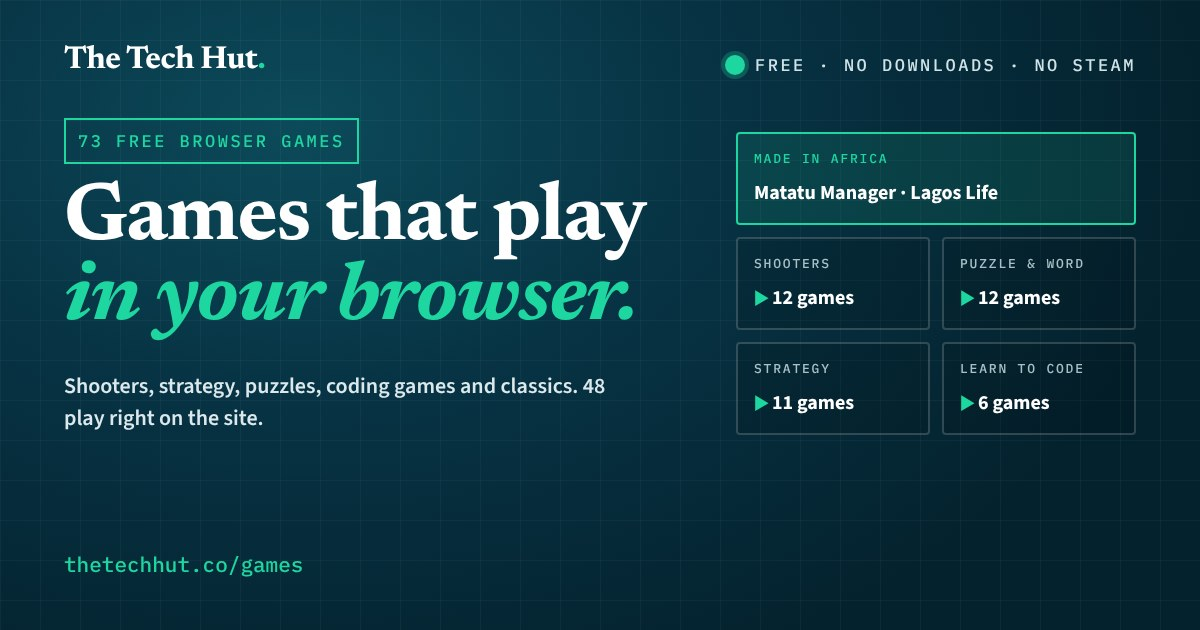
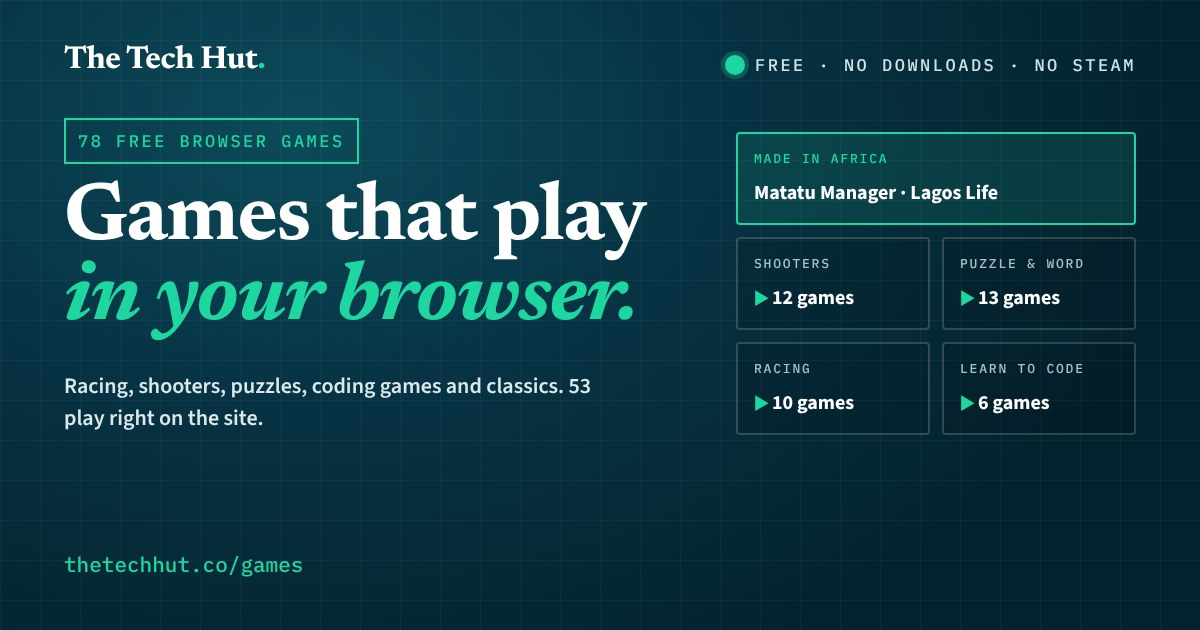
Games: four more racing games that play on the site; 78 games
Kart Bros, DashCraft.io, Free Rider HD and Bruno Simon's drivable
portfolio. None sends X-Frame-Options or frame-ancestors, none redirects
the parent page when framed, and their scripts have no frame-busting
checks. Slugs added to GAME_SLUGS; counts and share image updated (78
games, 53 on-site, Racing tile).

Checked and left out: Madalin Stunt Cars and Rocket Bot Royale
(SAMEORIGIN), Trigger Rally (site down).

Claude-Session: https://claude.ai/code/session_012aqDtYgHZhPc87kBUa8yyQ

Changed region(s): [[0.0308, 0.6032, 0.5242, 0.6333], [0.6167, 0.573, 0.6783, 0.6032], [0.6475, 0.6333, 0.6783, 0.6635]]

diff --git a/games/index.html b/games/index.html
@@ -4,37 +4,37 @@
 <head>
     <meta charset="UTF-8">
     <meta name="viewport" content="width=device-width, initial-scale=1.0">
-    <title>Free browser games: 74 to play right now, no downloads | The Tech Hut</title>
+    <title>Free browser games: 78 to play right now, no downloads | The Tech Hut</title>
     <link rel="canonical" href="https://thetechhut.co/games/">
-    <meta name="description" content="74 free games that play in your browser: shooters, strategy, racing, puzzles and classics like Doom and Diablo. No Steam, no Epic, no downloads, and every one of them legal.">
+    <meta name="description" content="78 free games that play in your browser: shooters, strategy, racing, puzzles and classics like Doom and Diablo. No Steam, no Epic, no downloads, and every one of them legal.">
     <meta name="keywords" content="free browser games, games to play online free, no download games, play games in browser, legal free online games, African video games, Kenyan games, Matatu Manager, Lagos Life, The Tech Hut">
     <meta name="robots" content="index, follow, max-image-preview:large">
 
     <meta property="og:type" content="website">
     <meta property="og:site_name" content="The Tech Hut">
     <meta property="og:locale" content="en_KE">
-    <meta property="og:title" content="74 free games you can play in your browser">
+    <meta property="og:title" content="78 free games you can play in your browser">
     <meta property="og:description" content="No Steam, no Epic, no downloads. Shooters, strategy, racing, puzzles and classics, all free and all legal, with two games made in Africa.">
     <meta property="og:url" content="https://thetechhut.co/games/">
-    <meta property="og:image" content="https://thetechhut.co/assets/img/social/games.jpg?v=74">
+    <meta property="og:image" content="https://thetechhut.co/assets/img/social/games.jpg?v=78">
     <meta property="og:image:width" content="1200">
     <meta property="og:image:height" content="630">
     <meta property="og:image:type" content="image/jpeg">
-    <meta property="og:image:alt" content="The Tech Hut games: 74 free browser games, including Matatu Manager and Lagos Life, made in Africa">
+    <meta property="og:image:alt" content="The Tech Hut games: 78 free browser games, including Matatu Manager and Lagos Life, made in Africa">
     <meta name="twitter:card" content="summary_large_image">
-    <meta name="twitter:title" content="74 free games you can play in your browser">
+    <meta name="twitter:title" content="78 free games you can play in your browser">
     <meta name="twitter:description" content="No Steam, no Epic, no downloads. All free, all legal, 28 playable right on The Tech Hut.">
-    <meta name="twitter:image" content="https://thetechhut.co/assets/img/social/games.jpg?v=74">
-    <meta name="twitter:image:alt" content="The Tech Hut games: 74 free browser games, including Matatu Manager and Lagos Life, made in Africa">
+    <meta name="twitter:image" content="https://thetechhut.co/assets/img/social/games.jpg?v=78">
+    <meta name="twitter:image:alt" content="The Tech Hut games: 78 free browser games, including Matatu Manager and Lagos Life, made in Africa">
     <meta name="theme-color" content="#073B4C">
     <script type="application/ld+json">
     {
       "@context": "https://schema.org",
       "@type": "CollectionPage",
       "name": "Free browser games",
-      "description": "74 free, legal games that play in your browser, with no downloads or game-store account needed.",
+      "description": "78 free, legal games that play in your browser, with no downloads or game-store account needed.",
       "url": "https://thetechhut.co/games/",
-      "image": "https://thetechhut.co/assets/img/social/games.jpg?v=74",
+      "image": "https://thetechhut.co/assets/img/social/games.jpg?v=78",
       "inLanguage": "en-KE",
       "isPartOf": { "@type": "WebSite", "name": "The Tech Hut", "url": "https://thetechhut.co/" },
       "publisher": { "@type": "Organization", "name": "The Tech Hut Community", "url": "https://thetechhut.co/", "logo": "https://thetechhut.co/assets/img/favicon-192.png" }
@@ -150,7 +150,7 @@
 
     <header class="hero" id="main">
         <div class="wrap">
-            <span class="pill">74 games &middot; free &middot; nothing to install</span>
+            <span class="pill">78 games &middot; free &middot; nothing to install</span>
             <h1>Games that play <em>in your browser.</em></h1>
             <p class="lede">No Steam, no Epic, no downloads. Shooters, strategy, racing, puzzles and a few
                 famous classics, including Doom and Diablo. Games marked <b style="color:var(--ink)">Plays here</b>
@@ -257,7 +257,7 @@
         </div>
     </footer>
 
-    <script src="/assets/js/games-data.js?v=20261107c"></script>
+    <script src="/assets/js/games-data.js?v=20261107d"></script>
     <script src="/assets/js/games-live.js?v=20261027b" defer></script>
     <script src="/assets/js/games-arcade.js?v=20261103" defer></script>
     <script>

diff --git a/game_test.html b/game_test.html
@@ -16,7 +16,7 @@
     <meta property="og:title" content="50 free games you can play in your browser">
     <meta property="og:description" content="No Steam, no Epic, no downloads. Shooters, strategy, racing, puzzles and classics, all free and all legal, with two games made in Africa.">
     <meta property="og:url" content="https://thetechhut.co/games/">
-    <meta property="og:image" content="https://thetechhut.co/assets/img/social/games.jpg?v=74">
+    <meta property="og:image" content="https://thetechhut.co/assets/img/social/games.jpg?v=78">
     <meta property="og:image:width" content="1200">
     <meta property="og:image:height" content="630">
     <meta property="og:image:type" content="image/jpeg">
@@ -24,7 +24,7 @@
     <meta name="twitter:card" content="summary_large_image">
     <meta name="twitter:title" content="50 free games you can play in your browser">
     <meta name="twitter:description" content="No Steam, no Epic, no downloads. All free, all legal, 28 playable right on The Tech Hut.">
-    <meta name="twitter:image" content="https://thetechhut.co/assets/img/social/games.jpg?v=74">
+    <meta name="twitter:image" content="https://thetechhut.co/assets/img/social/games.jpg?v=78">
     <meta name="twitter:image:alt" content="The Tech Hut games: 50 free browser games, including Matatu Manager and Lagos Life, made in Africa">
     <meta name="theme-color" content="#073B4C">
     <script type="application/ld+json">
@@ -34,7 +34,7 @@
       "name": "Free browser games",
       "description": "50 free, legal games that play in your browser, with no downloads or game-store account needed.",
       "url": "https://thetechhut.co/games/",
-      "image": "https://thetechhut.co/assets/img/social/games.jpg?v=74",
+      "image": "https://thetechhut.co/assets/img/social/games.jpg?v=78",
       "inLanguage": "en-KE",
       "isPartOf": { "@type": "WebSite", "name": "The Tech Hut", "url": "https://thetechhut.co/" },
       "publisher": { "@type": "Organization", "name": "The Tech Hut Community", "url": "https://thetechhut.co/", "logo": "https://thetechhut.co/assets/img/favicon-192.png" }

diff --git a/assets/js/games-data.js b/assets/js/games-data.js
@@ -102,6 +102,14 @@
       by: 'Thibaut Despoulain (MIT)', line: 'Futuristic anti-gravity racer in the spirit of Wipeout.' },
     { slug: 'drive-mad', name: 'Drive Mad', cat: 'racing', url: 'https://poki.com/en/g/drive-mad', legal: 'official', phone: true, embed: false,
       by: 'Fancade (Martin Magni), on Poki', line: 'Physics driving puzzles: get odd vehicles over bridges and ramps to the finish without flipping. Short ads between levels.' },
+    { slug: 'kart-bros', name: 'Kart Bros', cat: 'racing', url: 'https://kartbros.io/', legal: 'indie', phone: true, embed: true,
+      by: 'The Bros games team', line: 'Kart racing with rockets, shields and drifting. Race bots or friends online, or build your own track.' },
+    { slug: 'dashcraft', name: 'DashCraft.io', cat: 'racing', url: 'https://dashcraft.io/', legal: 'indie', phone: false, embed: true,
+      by: 'DashCraft', line: 'Build a stunt track out of blocks, then race it against other players online. Loops, jumps and ramps.' },
+    { slug: 'free-rider-hd', name: 'Free Rider HD', cat: 'racing', url: 'https://www.freeriderhd.com/', legal: 'official', phone: false, embed: true,
+      by: 'Kano Games', line: 'Ride a bike over tracks drawn by other players, or draw your own. Thousands of community tracks.' },
+    { slug: 'bruno-simon', name: 'Bruno Simon\'s car portfolio', cat: 'racing', url: 'https://bruno-simon.com/', legal: 'open-source', phone: true, embed: true,
+      by: 'Bruno Simon', line: 'A developer\'s portfolio you explore by driving a toy car around a 3D world. Knock things over, find the secrets.' },
     { slug: 'smash-karts', name: 'Smash Karts', cat: 'racing', url: 'https://smashkarts.io', legal: 'official', phone: true, embed: true,
       by: 'Tall Team', line: 'Multiplayer kart battles with weapons. Short ads before rounds.' },
     { slug: 'js-racer', name: 'Javascript Racer', cat: 'racing', url: 'https://jakesgordon.com/games/racer/', legal: 'indie', phone: false, embed: false,

diff --git a/games/play/index.html b/games/play/index.html
@@ -10,14 +10,14 @@
     <meta property="og:type" content="website">
     <meta property="og:site_name" content="The Tech Hut">
     <meta property="og:title" content="Play free in your browser | The Tech Hut games">
-    <meta property="og:description" content="74 free games, no downloads, no Steam. Pick one and play right on The Tech Hut.">
+    <meta property="og:description" content="78 free games, no downloads, no Steam. Pick one and play right on The Tech Hut.">
     <meta property="og:url" content="https://thetechhut.co/games/">
-    <meta property="og:image" content="https://thetechhut.co/assets/img/social/games.jpg?v=74">
+    <meta property="og:image" content="https://thetechhut.co/assets/img/social/games.jpg?v=78">
     <meta property="og:image:width" content="1200">
     <meta property="og:image:height" content="630">
-    <meta property="og:image:alt" content="The Tech Hut games: 74 free browser games, including Matatu Manager and Lagos Life, made in Africa">
+    <meta property="og:image:alt" content="The Tech Hut games: 78 free browser games, including Matatu Manager and Lagos Life, made in Africa">
     <meta name="twitter:card" content="summary_large_image">
-    <meta name="twitter:image" content="https://thetechhut.co/assets/img/social/games.jpg?v=74">
+    <meta name="twitter:image" content="https://thetechhut.co/assets/img/social/games.jpg?v=78">
     <meta name="theme-color" content="#073B4C">
     <link rel="canonical" href="https://thetechhut.co/games/">
     <link rel="icon" href="/favicon.ico" sizes="any">
@@ -81,7 +81,7 @@
     </div>
     <div class="stage" id="stage"></div>
 
-    <script src="/assets/js/games-data.js?v=20261107c"></script>
+    <script src="/assets/js/games-data.js?v=20261107d"></script>
     <script src="/assets/js/games-live.js?v=20261027b" defer></script>
     <script>
     // Arcade chip in the player bar: your rank and time this week, or an invitation to join.

diff --git a/worker/src/game-slugs.js b/worker/src/game-slugs.js
@@ -4,7 +4,7 @@
 export const GAME_SLUGS = [
   'matatu-manager', 'lagos-life', 'quake3', 'doom', 'krunker', 'shell-shockers', 'venge', 'kour', 'evio',
   'deadshot', 'distrito-rabisco', 'xonotic', '1v1lol', 'freeciv', 'openfront', 'hedgewars', 'lichess',
-  'chesscom', 'bitburner', 'shapez', 'polytrack', 'slow-roads', 'hexgl', 'drive-mad', 'smash-karts', 'js-racer', 'wordle',
+  'chesscom', 'bitburner', 'shapez', 'polytrack', 'slow-roads', 'hexgl', 'drive-mad', 'kart-bros', 'dashcraft', 'free-rider-hd', 'bruno-simon', 'smash-karts', 'js-racer', 'wordle',
   '2048', 'hextris', 'tetris', 'little-alchemy-2', 'solitaire', 'minesweeper', 'skribbl', 'snake', 'pacman',
   'celeste-classic', 'qwop', 'line-rider', 'minecraft-classic', 'bloxd', 'townscaper', 'sandspiel',
   'infinite-craft', 'slither', 'agar', 'diep', 'diablo', 'a-dark-room', 'cookie-clicker', 'paperclips',
